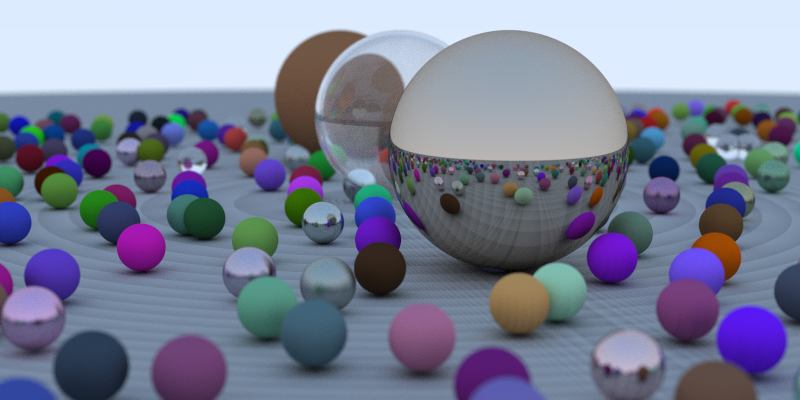
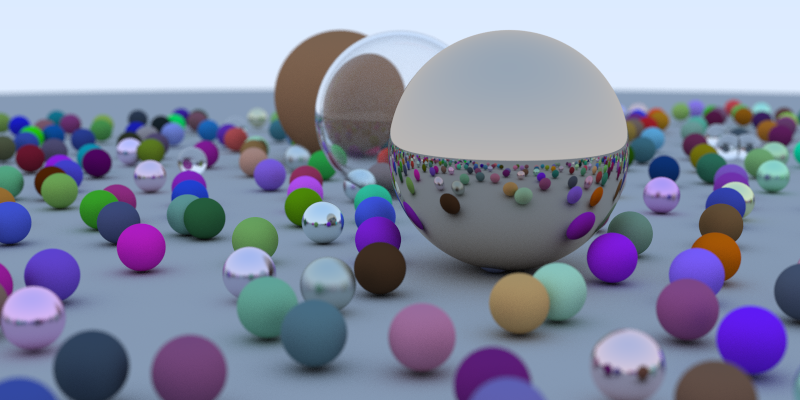
fix color banding due to min_t for hit too low

diff --git a/src/main.cpp b/src/main.cpp
@@ -13,7 +13,7 @@ std::vector<std::shared_ptr<Hitable>> create_random_scene() {
 	const int n = 489;
 	std::vector<std::shared_ptr<Hitable>> list(n);
 	std::shared_ptr<Material> mat(new Lambertian(Vec3(0.5, 0.5, 0.5)));
-	list[0] =  std::shared_ptr<Hitable>(new Sphere(Vec3(0,-800,0), 800, mat));
+	list[0] =  std::shared_ptr<Hitable>(new Sphere(Vec3(0,-1000,0), 1000, mat));
 	int i = 1;
 	for (int a = -11; a < 11; a++) {
 		for (int b = -11; b < 11; b++) {
@@ -82,7 +82,7 @@ void manual_setup(std::string filename) {
 
 	std::vector<std::shared_ptr<Hitable>> list(6);
     list[0] = std::shared_ptr<Hitable>(new Sphere(Vec3(0,0,0), 0.5, std::shared_ptr<Material>(new Lambertian(Vec3(0.8, 0.3, 0.3)))));
-    list[1] = std::shared_ptr<Hitable>(new Sphere(Vec3(0,-2000.5,0), 2000, std::shared_ptr<Material>(new Lambertian(Vec3(0.5, 0.5, 0.5)))));
+    list[1] = std::shared_ptr<Hitable>(new Sphere(Vec3(0,-1000.5,0), 1000, std::shared_ptr<Material>(new Lambertian(Vec3(0.5, 0.5, 0.5)))));
     list[2] = std::shared_ptr<Hitable>(new Sphere(Vec3(1,0,0), 0.5, std::shared_ptr<Material>(new Metal(Vec3(0.7, 0.6, 0.5), 0.2))));
     list[3] = std::shared_ptr<Hitable>(new Sphere(Vec3(-1,0,0), 0.5, std::shared_ptr<Material>(new Dielectric(1.2))));
     list[4] = std::shared_ptr<Hitable>(new Sphere(Vec3(-1,0,0), -0.45, std::shared_ptr<Material>(new Dielectric(1.2))));
@@ -96,8 +96,8 @@ void manual_setup(std::string filename) {
 int main(int argc, char* argv[]) {
 	std::string filename = (argc < 2) ? "output.png" : argv[1];
 
-	manual_setup(filename);
-//	random_setup(filename);
+//	manual_setup(filename);
+	random_setup(filename);
 
     return 0;
 }

diff --git a/src/BVH.cpp b/src/BVH.cpp
@@ -54,7 +54,7 @@ bool BVH::getIntersection(const Ray& ray, IntersectionInfo &intersection, bool o
     	IntersectionInfo current;
 
         const std::shared_ptr<Hitable> obj = build_prims[node.start+o];
-        bool hit = obj->hit(ray, 0.00001f, MAXFLOAT, current);
+        bool hit = obj->hit(ray, default_tmin, default_tmax, current);
 
         if (hit) {
           // If we're only looking for occlusion, then any hit is good enough

diff --git a/src/BVH.h b/src/BVH.h
@@ -22,6 +22,9 @@ struct BVHFlatNode {
 };
 
 class BVH {
+	const float default_tmin = 0.001f;
+	const float default_tmax = MAXFLOAT;
+
 	unsigned int nNodes, nLeafs, leafSize;
 	std::vector<std::shared_ptr<Hitable>> build_prims;
 

diff --git a/README.md b/README.md
@@ -2,3 +2,7 @@
 a simple ray tracer
 
 ![Alt exampleSceneRenderer](images/scene1.png?raw=true "example scene")
+simple test scene
+
+![Alt bigExampleSceneRenderer](images/randomScene20.png?raw=true "big example scene")
+scene with 500 spheres
